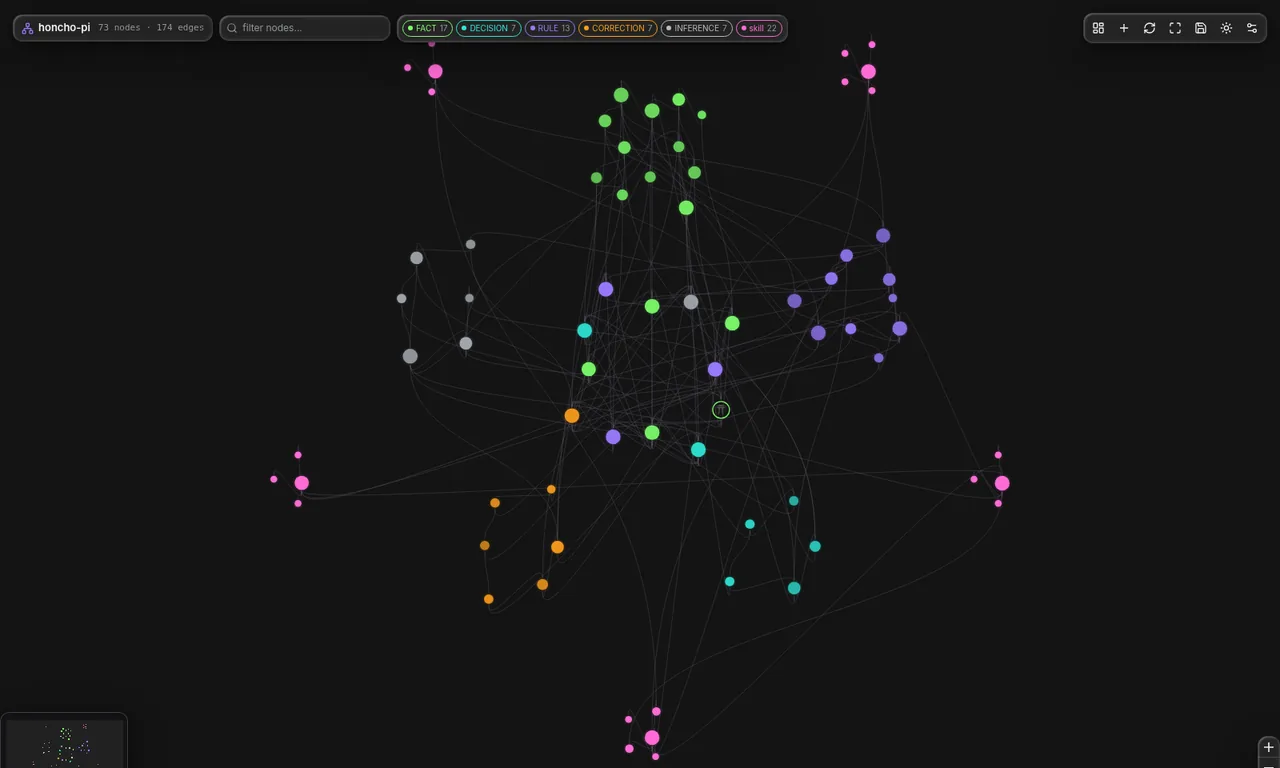
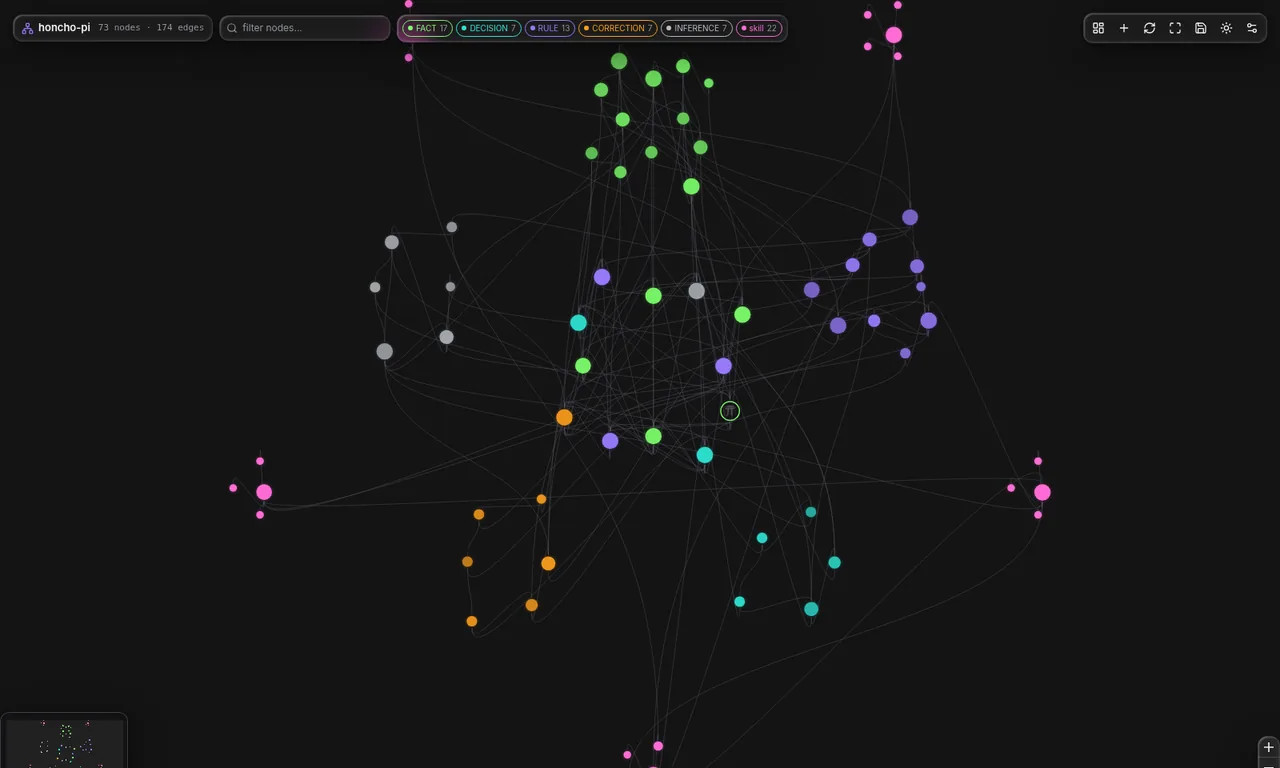
fix(web): text floor scrim under clear glass
Pure 6% clear glass lost its text floor: muted 10-11px counts sat
directly on blurred bright nodes, and dashboard cards nearly vanished
into the background. A shallow two-stop scrim now sits under the
clear tint (dark: rgba(8,8,11,.38)->.22; light: white .35->.2), so
the material stays transparent but text has a stable base.

Sampled contrast, not eyeballed: muted counts over a blurred green
node 5.64:1, chip text over green 6.24-6.82:1, dashboard card labels
5.63:1 - all above the 4.5:1 AA floor. Light theme verified.
Screenshots regenerated. 385 tests, gate clean.

diff --git a/web/src/index.css b/web/src/index.css
@@ -29,6 +29,9 @@
      Chrome only; the canvas stays matte. */
   --glass: rgba(255, 255, 255, 0.06);
   --glass-strong: rgba(30, 30, 40, 0.42);
+  /* Text floor: a shallow dark scrim under the clear tint so muted 10-11px
+     text keeps 4.5:1 even when a bright node blurs underneath. */
+  --glass-scrim: linear-gradient(rgba(8, 8, 11, 0.38), rgba(8, 8, 11, 0.22));
   --glass-border: rgba(255, 255, 255, 0.14);
   --glass-shadow: 0 12px 40px rgba(0, 0, 0, 0.5), 0 2px 8px rgba(0, 0, 0, 0.35);
   --glass-rim:
@@ -60,6 +63,7 @@
   --glass: rgba(255, 255, 255, 0.42);
   --glass-strong: rgba(255, 255, 255, 0.6);
   --glass-border: rgba(255, 255, 255, 0.65);
+  --glass-scrim: linear-gradient(rgba(255, 255, 255, 0.35), rgba(255, 255, 255, 0.2));
   --glass-shadow: 0 8px 32px rgba(15, 23, 42, 0.14), 0 2px 8px rgba(15, 23, 42, 0.08);
   --glass-rim:
     inset 1.5px 1.5px 2px -1px rgba(255, 255, 255, 0.9),
@@ -110,13 +114,13 @@ body::before {
    Chrome only (toolbar, panels, controls); dashboard cards use the fill
    over a shared static backdrop, no per-card compositor layers. */
 .glass {
-  background: var(--glass);
+  background: var(--glass-scrim), var(--glass);
   border: 1px solid var(--glass-border);
   box-shadow: var(--glass-shadow), var(--glass-rim);
 }
 
 .glass-strong {
-  background: var(--glass-strong);
+  background: var(--glass-scrim), var(--glass-strong);
   border: 1px solid var(--glass-border);
   box-shadow: var(--glass-shadow), var(--glass-rim);
 }
